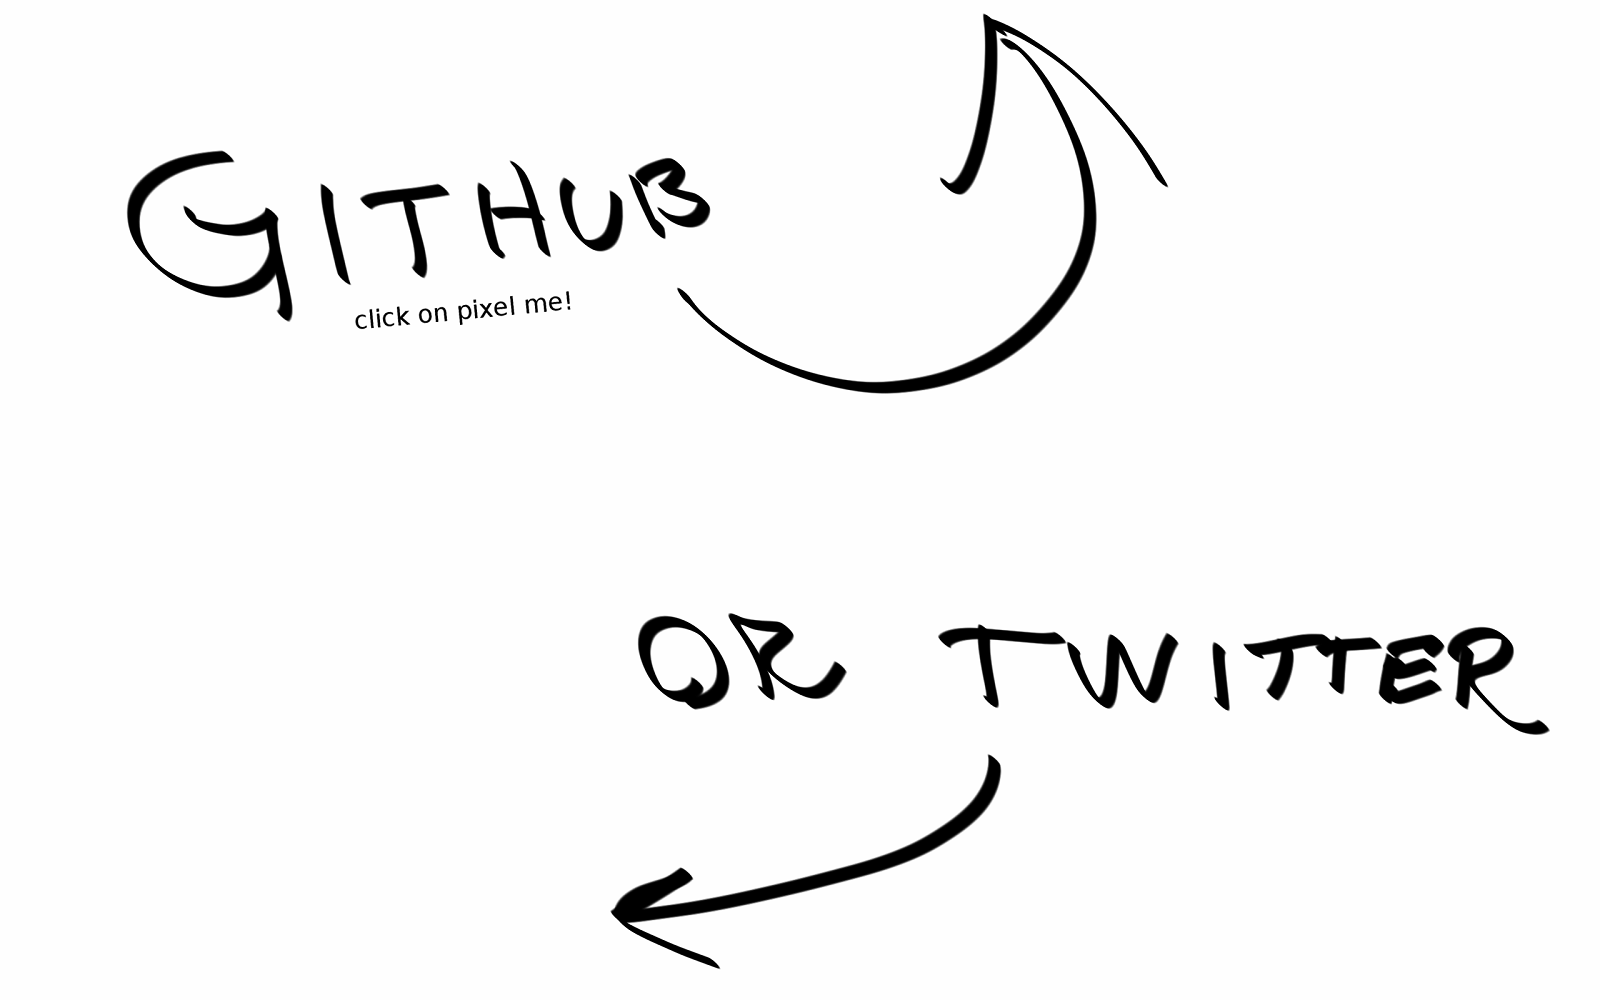
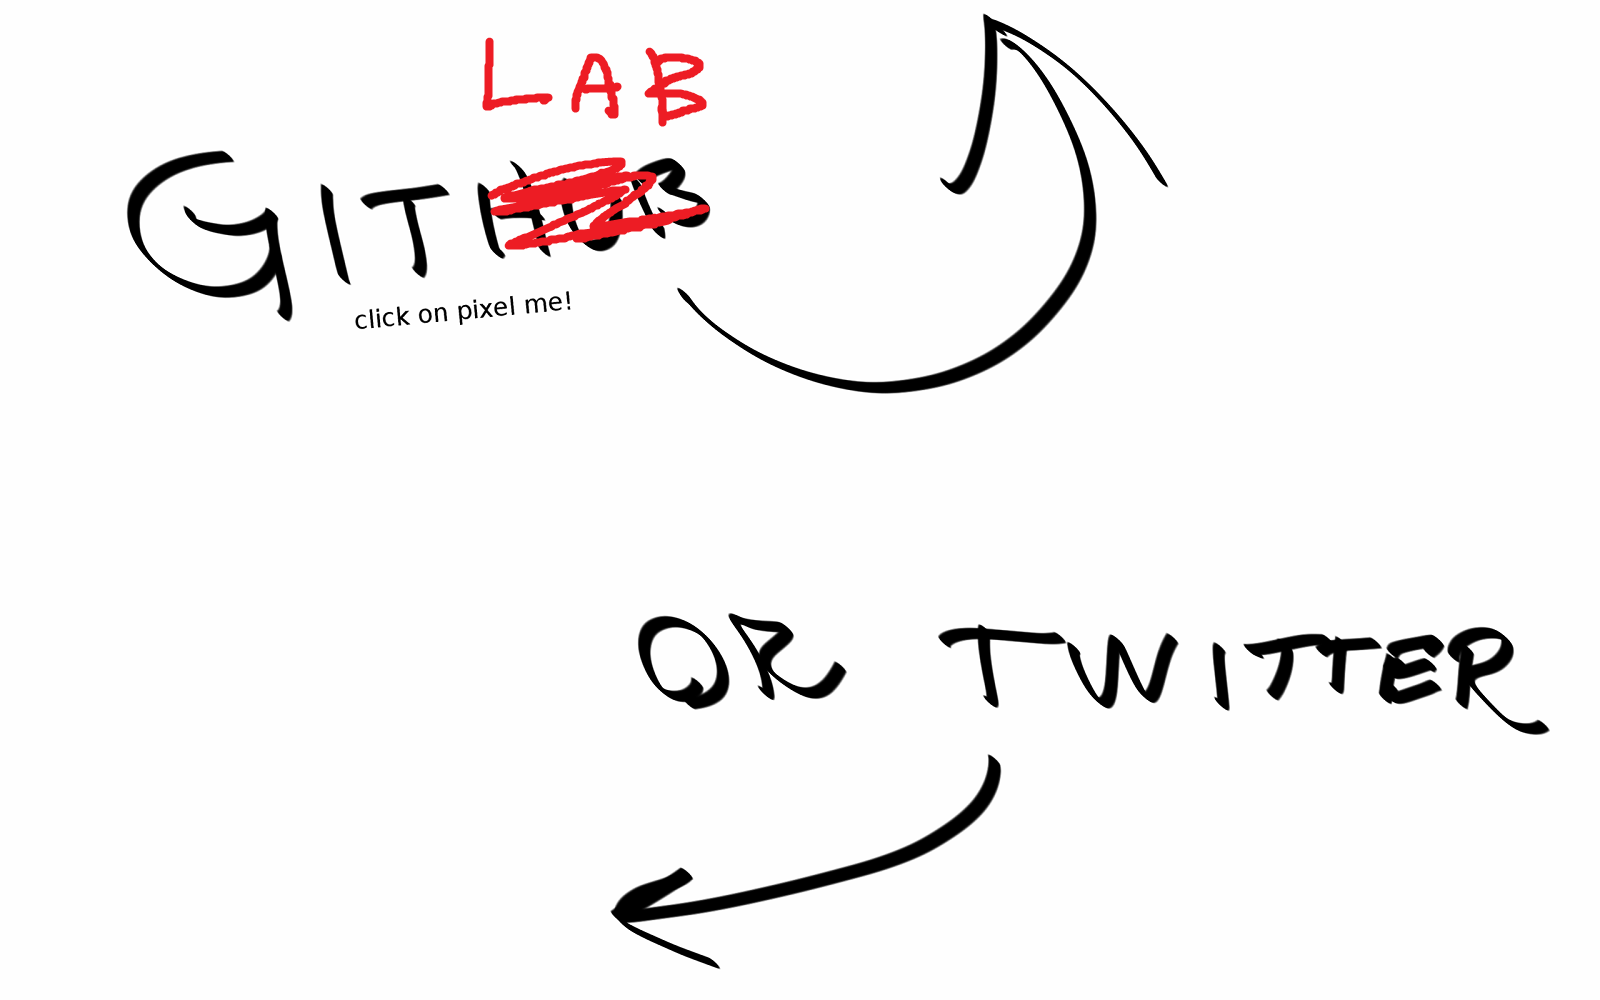
fixed text for gitlab transfer

Changed region(s): [[0.2812, 0.155, 0.4375, 0.248], [0.2812, 0.031, 0.4375, 0.124]]

diff --git a/contact.html b/contact.html
@@ -13,7 +13,7 @@
   <div class="wrapper">
     <div class="header">
       <div class="profile">
-        <a href="https://github.com/Nilsiker/"> <img src="media/nilsiker.png" alt="" title="Check out my GitHub profile!" height="200" style="
+        <a href="https://gitlab.com/nilsiker/"> <img src="media/nilsiker.png" alt="" title="Check out my GitLab profile!" height="200" style="
               height: 200px;
               display: block;
               margin-top: 10px;
